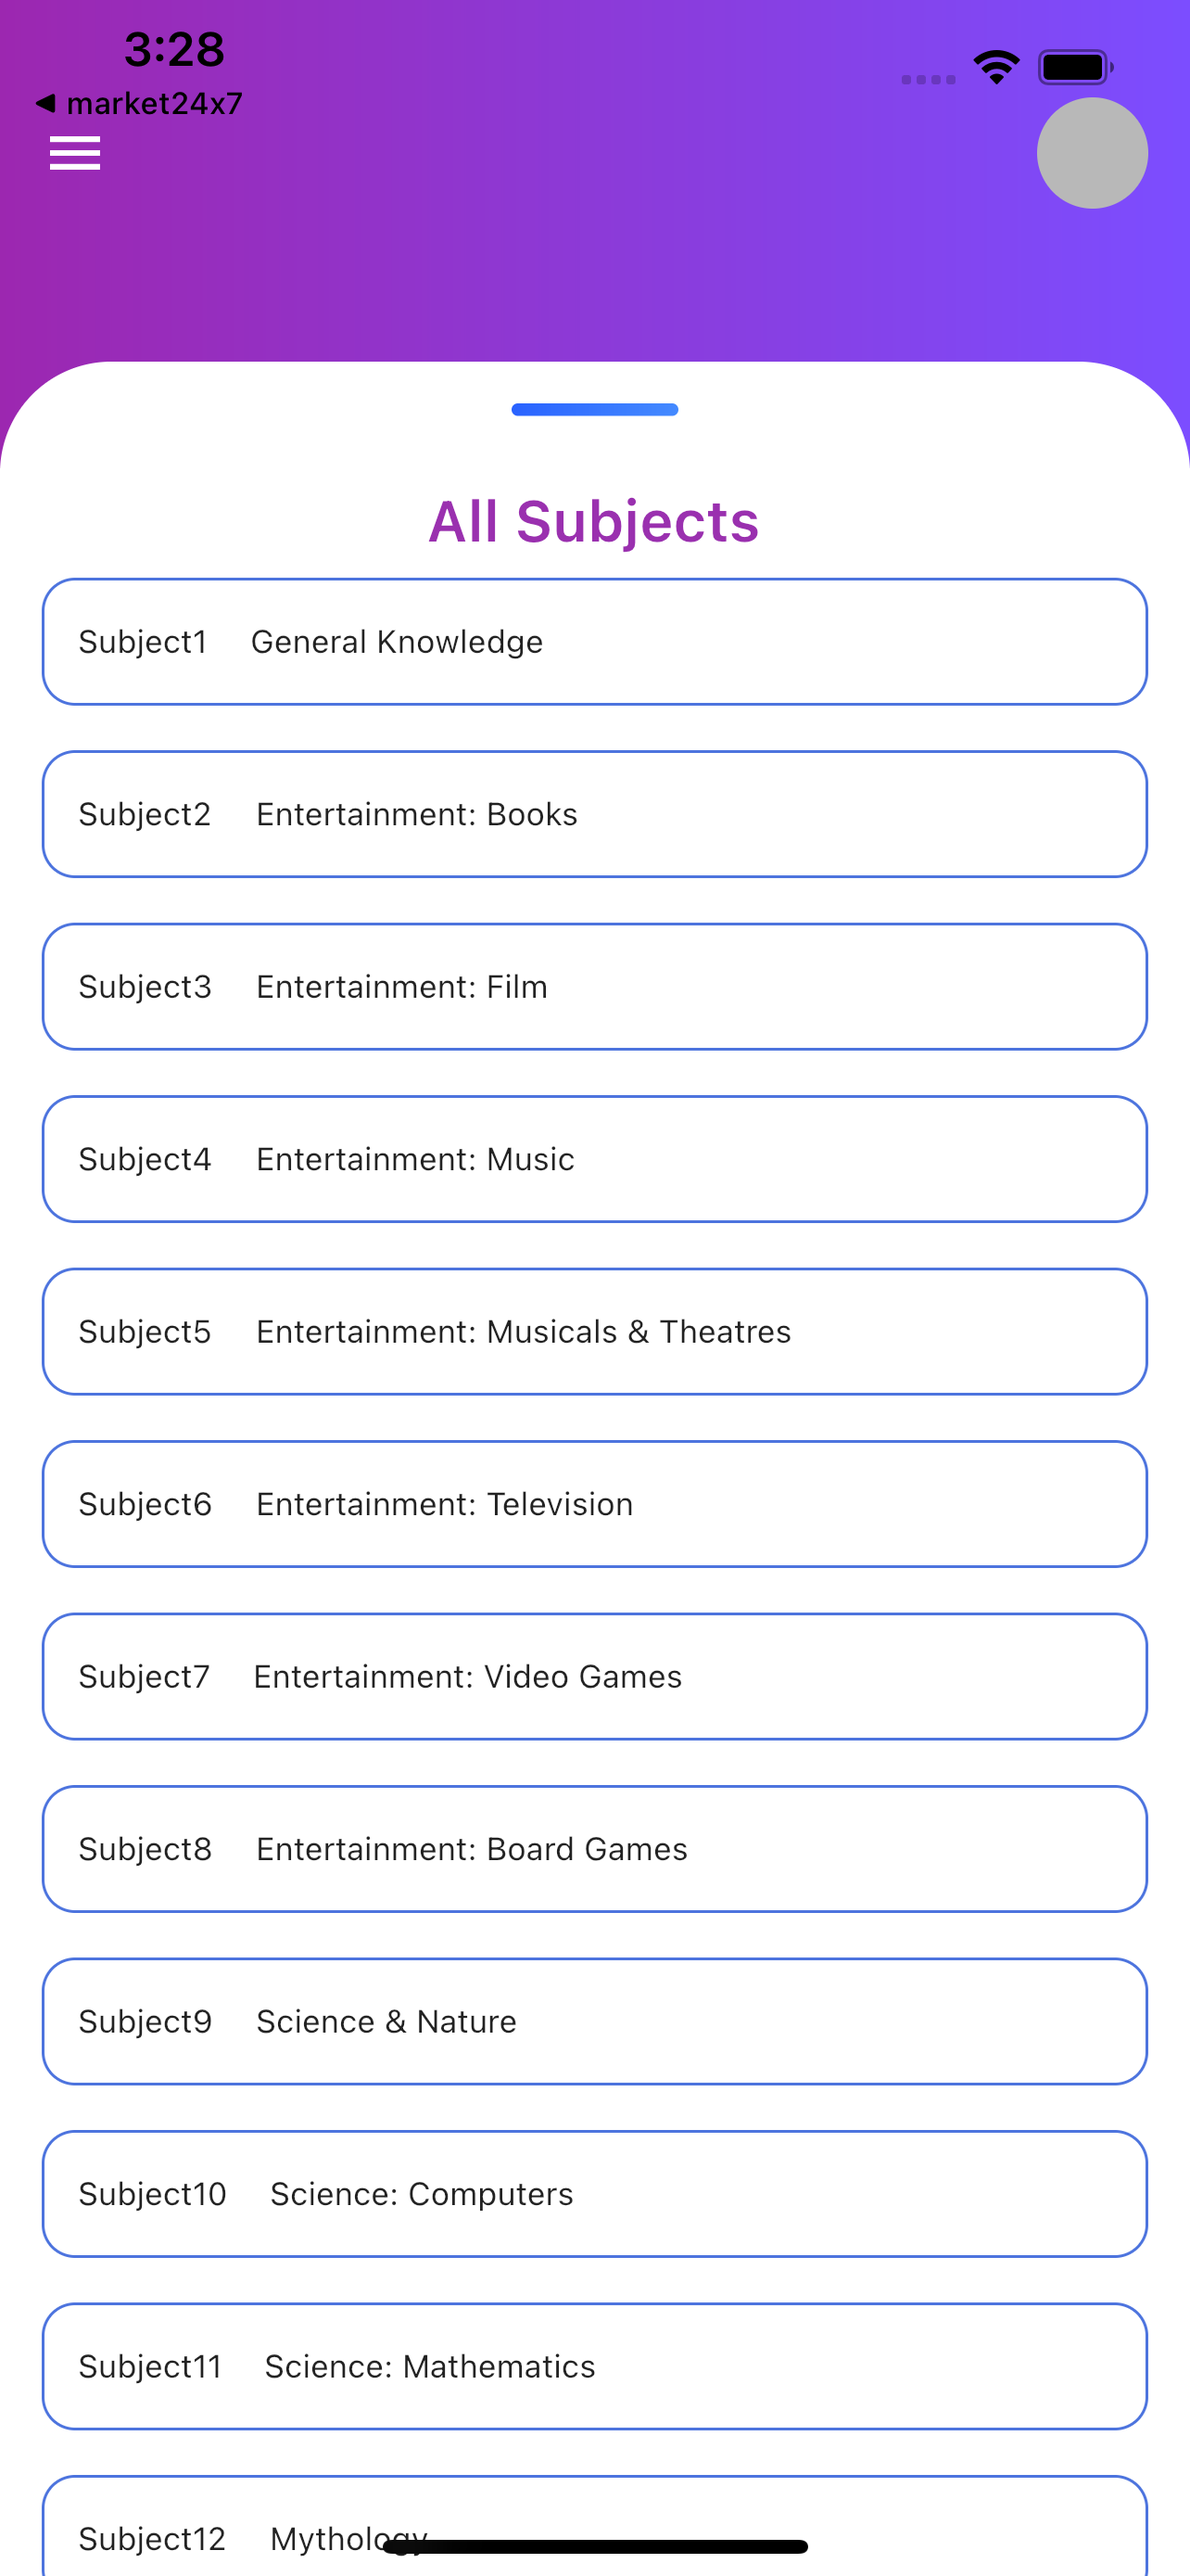
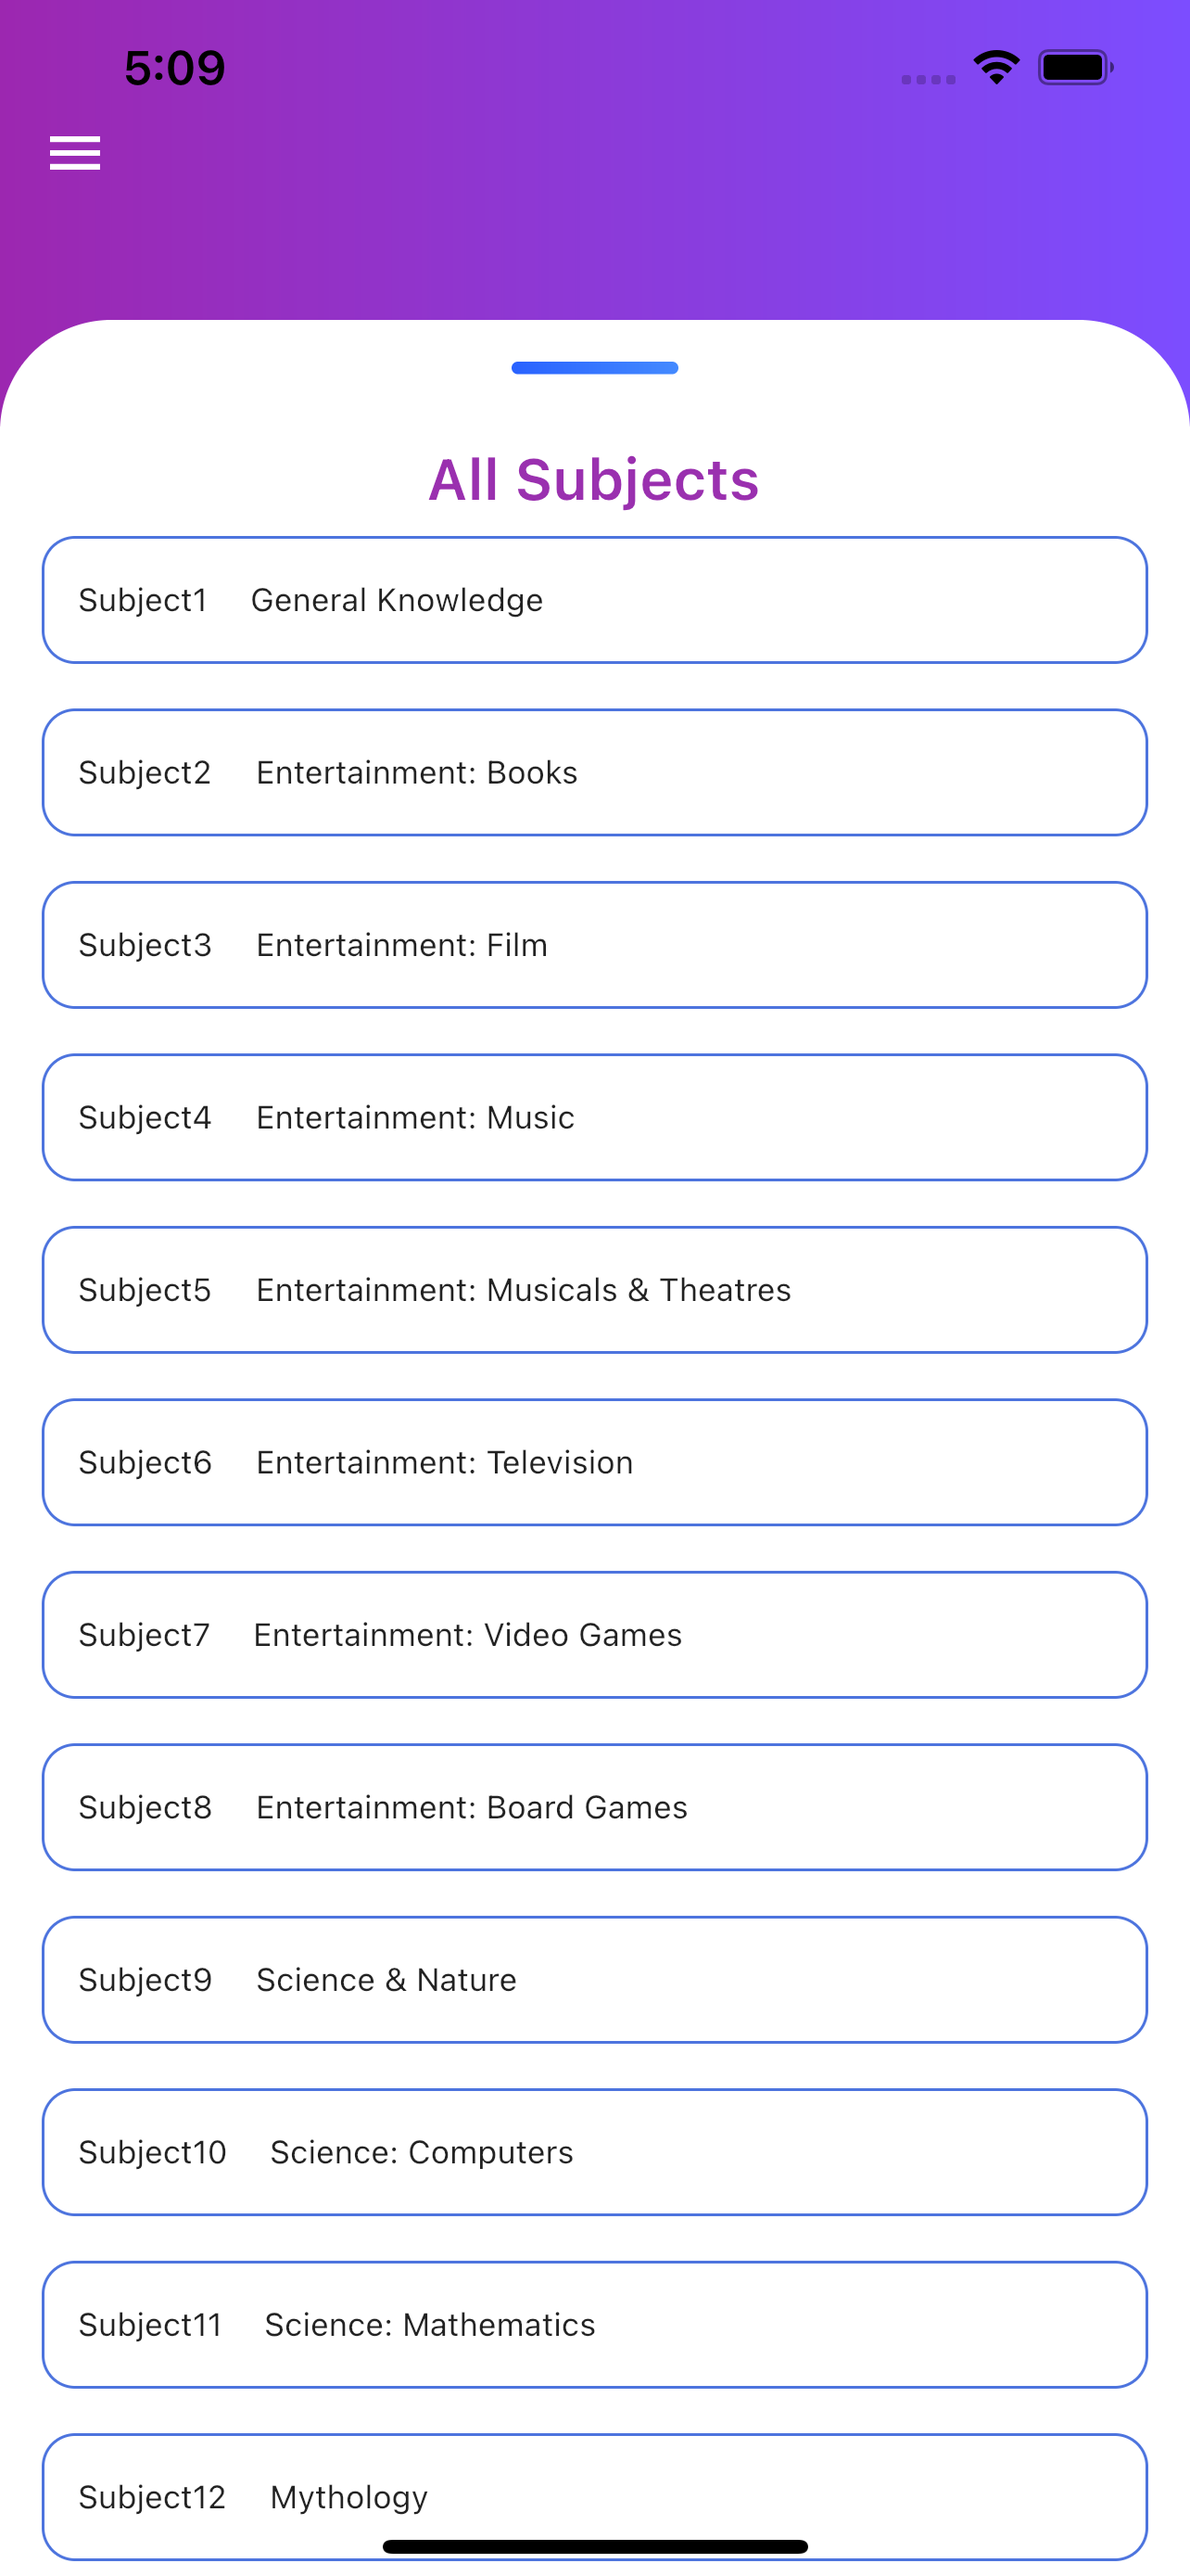
new screenshots

Changed region(s): [[0.0, 0.1238, 1.0, 1.0], [0.0312, 0.0, 0.1869, 0.0619], [0.8723, 0.031, 0.9657, 0.0929]]

diff --git a/lib/screens/resultScreen.dart b/lib/screens/resultScreen.dart
@@ -48,7 +48,7 @@ class ResultScreen extends GetView<ResultController> {
 
   appBar(BuildContext context) {
     return Container(
-      padding: const EdgeInsets.symmetric(horizontal: 15.0),
+      padding: const EdgeInsets.symmetric(horizontal: 10.0),
       height: 50,
       child: ListTile(
         leading: GestureDetector(
@@ -61,14 +61,15 @@ class ResultScreen extends GetView<ResultController> {
             color: AppColors.white,
           ),
         ),
-        title: Center(
-            child: Text(
-          " Final Score of the Quiz",
-          style: CommonWidgets.getTextStyle(fontSize: 20, textColor: AppColors.white),
-        )),
-        trailing: CircleAvatar(
-          backgroundColor: AppColors.grey,
+        title: Padding(
+          padding: const EdgeInsets.only(right: 60.0),
+          child: Text(
+            " Final Score of the Quiz",
+            textAlign: TextAlign.center,
+            style: CommonWidgets.getTextStyle(fontSize: 20, textColor: AppColors.white),
+          ),
         ),
+
       ),
     );
   }

diff --git a/lib/screens/questions.dart b/lib/screens/questions.dart
@@ -234,7 +234,7 @@ class QuestionPaper extends GetView<QuestionPaperAnswerController> {
                   child: Text("${time.min ?? "00"}:${time.sec.toString().padLeft(2, '0')}", style: const TextStyle(fontSize: 24.0)),
                 ),
                 CommonWidgets.getSizedBox(height: 8),
-                Text("Ques" "${controller.selectedIndex.value + 1}",
+                Text("Question" "${controller.selectedIndex.value + 1}",
                     style: CommonWidgets.getTextStyle(textColor: AppColors.textGradientColor, fontSize: 22, fontWeight: FontWeight.w600)),
                 CommonWidgets.getSizedBox(height: 8),
                 Text(questionList.question!, style: CommonWidgets.getTextStyle(textColor: AppColors.black, fontSize: 18)),

diff --git a/lib/screens/home.dart b/lib/screens/home.dart
@@ -42,7 +42,6 @@ class HomeScreen extends GetView<HomeController> {
               appBar(),
               CommonWidgets.getSizedBox(height: 20.0),
               CommonWidgets.getSizedBox(height: 15.0),
-              CommonWidgets.getSizedBox(height: 15.0),
               selectQuizView(context)
             ],
           ),
@@ -71,9 +70,6 @@ class HomeScreen extends GetView<HomeController> {
               color: AppColors.white,
             ),
           ),
-          CircleAvatar(
-            backgroundColor: AppColors.grey,
-          )
         ],
       ),
     );

diff --git a/lib/spashScreen.dart b/lib/spashScreen.dart
@@ -1,6 +1,6 @@
 import 'package:flutter/material.dart';
-import 'package:get/get_core/get_core.dart';
-import 'package:get/get_navigation/get_navigation.dart';
+import 'package:get/get.dart';
+import 'package:get/get_core/src/get_main.dart';
 import 'package:quiz_app/bindings/authenticationBindings/authenticationBinding.dart';
 import 'package:quiz_app/bindings/homeScreenBinding.dart';
 import 'package:quiz_app/bindings/levelBindings.dart';
